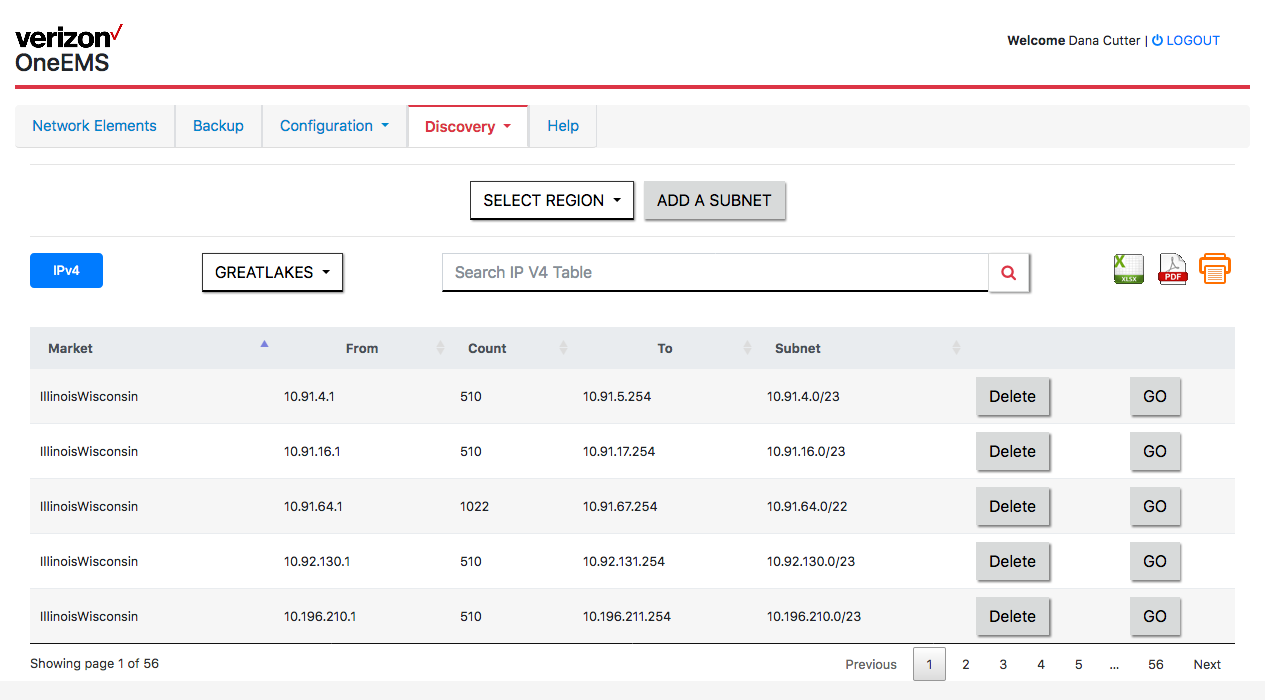
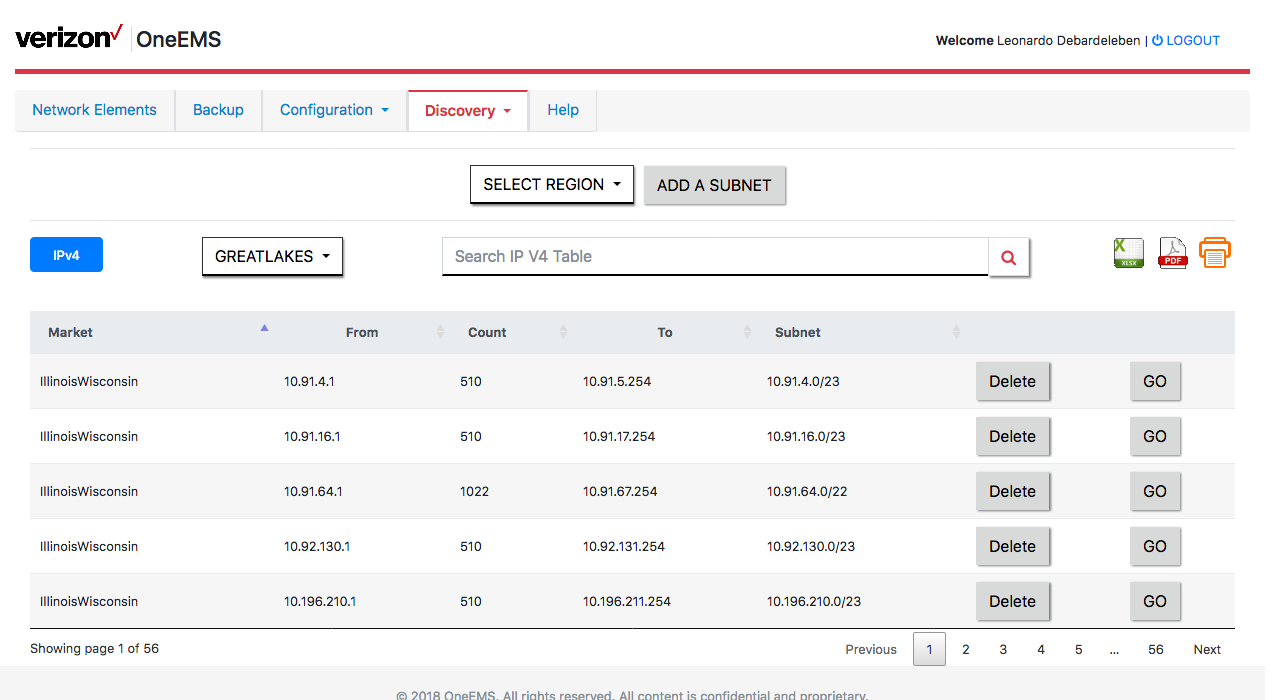
new design changes 24april2018

diff --git a/resources/css/bootstrap.css b/resources/css/bootstrap.css
@@ -7999,6 +7999,24 @@ body {
   }
 }
 
+.main-header .box h4 {
+  border-left: 0.1rem solid #d8dada;
+  display: inline-block;
+  font-size: 1.35rem;
+  margin: 1.65rem 0 0 0.5rem;
+  padding-left: 0.3rem;
+  position: absolute;
+}
+
+@media (max-width: 575px) {
+  .main-header .box h4 {
+    border: none;
+    display: block;
+    margin: 0;
+    position: relative;
+  }
+}
+
 .main-header .profile-box {
   text-align: right;
   padding: 0.625rem 0.625rem 0 0;
@@ -8098,18 +8116,18 @@ span.export {
   visibility: hidden;
 }
 
-#cellsitetech_user_devices_wrapper input, #example_filter input {
+#cellsitetech_user_devices_wrapper input, #swt_user_devices_filter input, #example_filter input {
   border: 1px solid #ced4da;
   border-bottom: 0.125rem solid #000;
   border-top-right-radius: 0;
   border-bottom-right-radius: 0;
 }
 
-#cellsitetech_user_devices_wrapper .dataTables_length, #example_filter .dataTables_length {
+#cellsitetech_user_devices_wrapper .dataTables_length, #swt_user_devices_filter .dataTables_length, #example_filter .dataTables_length {
   display: none;
 }
 
-#cellsitetech_user_devices_wrapper .dataTables_filter, #example_filter .dataTables_filter {
+#cellsitetech_user_devices_wrapper .dataTables_filter, #swt_user_devices_filter .dataTables_filter, #example_filter .dataTables_filter {
   float: left;
 }
 

diff --git a/resources/css/style.css b/resources/css/style.css
@@ -7999,6 +7999,24 @@ body {
   }
 }
 
+.main-header .box h4 {
+  border-left: 0.1rem solid #d8dada;
+  display: inline-block;
+  font-size: 1.35rem;
+  margin: 1.65rem 0 0 0.5rem;
+  padding-left: 0.3rem;
+  position: absolute;
+}
+
+@media (max-width: 575px) {
+  .main-header .box h4 {
+    border: none;
+    display: block;
+    margin: 0;
+    position: relative;
+  }
+}
+
 .main-header .profile-box {
   text-align: right;
   padding: 0.625rem 0.625rem 0 0;
@@ -8098,18 +8116,18 @@ span.export {
   visibility: hidden;
 }
 
-#cellsitetech_user_devices_wrapper input, #example_filter input {
+#cellsitetech_user_devices_wrapper input, #swt_user_devices_filter input, #example_filter input {
   border: 1px solid #ced4da;
   border-bottom: 0.125rem solid #000;
   border-top-right-radius: 0;
   border-bottom-right-radius: 0;
 }
 
-#cellsitetech_user_devices_wrapper .dataTables_length, #example_filter .dataTables_length {
+#cellsitetech_user_devices_wrapper .dataTables_length, #swt_user_devices_filter .dataTables_length, #example_filter .dataTables_length {
   display: none;
 }
 
-#cellsitetech_user_devices_wrapper .dataTables_filter, #example_filter .dataTables_filter {
+#cellsitetech_user_devices_wrapper .dataTables_filter, #swt_user_devices_filter .dataTables_filter, #example_filter .dataTables_filter {
   float: left;
 }
 

diff --git a/help_discovery_ips.php b/help_discovery_ips.php
@@ -167,7 +167,7 @@ $page_title = 'OneEMS';
           <button type="button" class="close img-close" data-dismiss="modal" aria-label="Close">
             <span aria-hidden="true">×</span>
           </button>
-          <img src="resources/img/screenshot-ip_management_add_subnet-1_LARGE.png" alt="" width="100%">
+          <img src="resources/img/screenshot-ip_management_add_subnet-1.png" alt="" width="100%">
         </div>
       </div>
     </div>
@@ -177,7 +177,7 @@ $page_title = 'OneEMS';
           <button type="button" class="close img-close" data-dismiss="modal" aria-label="Close">
             <span aria-hidden="true">×</span>
           </button>
-          <img src="resources/img/screenshot-ip_management_add_subnet-2_LARGE.png" alt="" width="100%">
+          <img src="resources/img/screenshot-ip_management_add_subnet-2.png" alt="" width="100%">
         </div>
       </div>
     </div>

diff --git a/cellsitetech-ip-management.php b/cellsitetech-ip-management.php
@@ -150,7 +150,7 @@ include_once ('config/session_check_cellsite_tech.php');
         <div class="input-group" id="search-v-pills-home">
           <input type="text" class="form-control" placeholder="Search IP V4 Table" aria-label="Search Table">
           <span class="input-group-btn">
-            <button class="btn btn-light" type="button"><i class="fas fa-search"></i></button>
+            <button class="btn btn-light" type="button"><i class="fa fa-search"></i></button>
           </span>
         </div>
         <div class="input-group" style="display: none;" id="search-v-pills-profile">

diff --git a/help_backup.php b/help_backup.php
@@ -119,7 +119,7 @@ $page_title = 'OneEMS';
           <button type="button" class="close img-close" data-dismiss="modal" aria-label="Close">
             <span aria-hidden="true">×</span>
           </button>
-          <img src="resources/img/screenshot-backup1_LARGE.png" alt="" width="100%">
+          <img src="resources/img/screenshot-backup1.png" alt="" width="100%">
         </div>
       </div>
     </div>

diff --git a/menu.php b/menu.php
@@ -2,7 +2,7 @@
   <div class="nav top-menu">
     <div class="float-left box logo-box">
       <!-- <a class="navbar-brand" href="#" > -->
-        <img src="resources/img/ncmlogo.png"  height = "24px"  alt=" NCM Logo"/>
+        <img src="resources/img/verizonlogo.png"  height = "24px"  alt=" Verizon Logo"/>
         <h4>OneEMS</h4>
       <!-- </a> -->
     </div>
